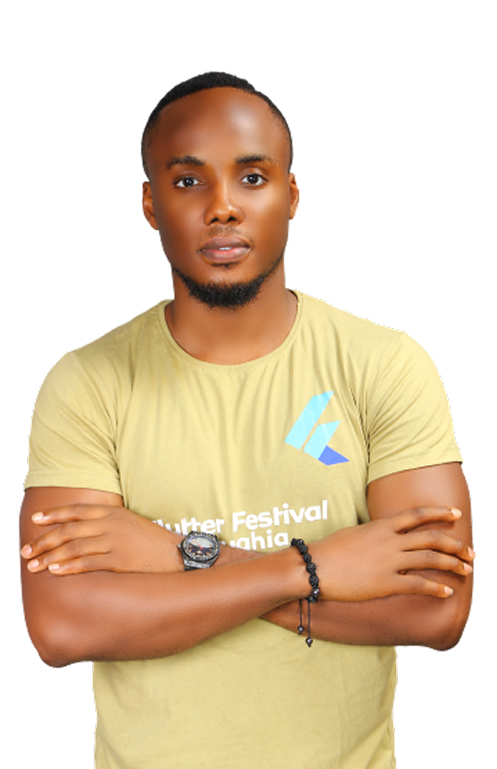
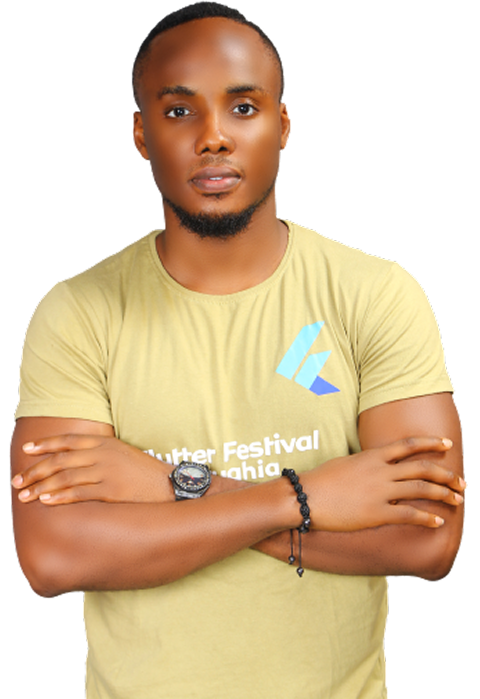
Fixed responsiveness issues

diff --git a/features/project-section/projects-slider.tsx b/features/project-section/projects-slider.tsx
@@ -26,9 +26,9 @@ export function ProjectSlider(){
         setViewedProjects([...viewedProjects, next]);
     }
     if (!mounted) return (<div className="flex items-center md:items-start justify-center">
-                              <Skeleton className="w-2/3 h-70 md:w-90 md:h-90 rounded-sm" />
+                              <Skeleton className="w-2/3 h-70 md:w-90 md:h-3/5 max-h-95 rounded-sm" />
                             </div>);
-    return (<div className="px-8 md:px-0 h-full w-screen md:w-4/5"><div className="relative w-full mt-4 md:mt-10 h-4/5 md:h-full">
+    return (<div className="px-8 md:px-0 h-2/3 md:h-3/5 md:max-h-95 w-screen md:w-4/6 mt-4"><div className="relative w-full h-4/5 md:h-full">
         {unviewedProjects.map((project,index) => {
             const top = (unviewedProjects.length*3)-(index*3);
             const leftRight = (index*4)
@@ -50,12 +50,12 @@ export function ProjectSlider(){
                             <div className="ml-4 mr-2 md:mr-0 grow text-sm/6 text-start">{project.shortDescription}</div>
                             <div className="mb-4 md:mb-6 mt-6 md:mt-0"><span className="inline-block animate-cta-pulse cursor-pointer rounded-l-0 rounded-r-md bg-primary font-bold text-white py-2 px-4 text-xs">View Details &gt;&gt;</span></div>
                         </div>
-                        <div className="grow h-20 md:max-h-full rounded-r-sm overflow-hidden"><Image alt="Project Screenshot" src={project.imageUrl} width={770} height={790} className="object-cover max-h-full rounded-r-sm"/></div>
+                        <div className="grow h-20 md:h-full rounded-r-sm overflow-hidden"><Image alt="Project Screenshot" src={project.imageUrl} width={770} height={790} className="object-cover max-h-full rounded-r-sm"/></div>
                     </div>
         </div>);})}
     </div>
     <div>
-        <div className="flex justify-center gap-20 mt-6 md:mt-0"><Button disabled={viewedProjects.length==0} className="cursor-pointer w-10 h-10 flex items-center justify-center rounded-full font-bold bg-white text-primary border-2 border-primary" onClick={viewPrevious}>&larr;</Button><Button disabled={unviewedProjects.length==1} className="cursor-pointer w-10 h-10 flex items-center justify-center rounded-full font-bold" onClick={viewNext}>&rarr;</Button></div>
+        <div className="flex justify-center gap-20 mt-8 md:mt-0"><Button disabled={viewedProjects.length==0} className="cursor-pointer w-10 h-10 flex items-center justify-center rounded-full font-bold bg-white text-primary border-2 border-primary" onClick={viewPrevious}>&larr;</Button><Button disabled={unviewedProjects.length==1} className="cursor-pointer w-10 h-10 flex items-center justify-center rounded-full font-bold" onClick={viewNext}>&rarr;</Button></div>
     </div>
     </div>);
 }

diff --git a/features/about-section/about-section.tsx b/features/about-section/about-section.tsx
@@ -9,17 +9,19 @@ export function AboutSection(){
         <div id='about' className="relative pr-4 md:pr-20 lg:pr-20 h-dvh pt-15 md:pt-15 snap-start scroll-mr-0 w-full overflow-x-hidden bg-[#E5E5E5]">
             <AboutContent>
                 <h2 className="block md:hidden text-xl text-center md:text-left font-bold w-full">About Me</h2>
-                <div className="flex itmes-center justify-start md:justify-center h-45 md:h-145 relative w-full md:w-auto">
-                    <div className="bg-primary rounded-r-lg h-15 md:h-55 w-xs md:w-105 my-auto"></div>
-                    <div className="h-35 md:h-110 w-35 md:w-75 absolute left-1/2 -translate-x-1/2 md:translate-x-0 md:left-30 top-0 bottom-0">
-                        <Image alt="A Photo of me" src="/about-photo.png" width={497} height={769} className="hidden md:block object-cover" />
+                <div className="flex itmes-center justify-start md:justify-center h-1/6 md:h-2/3 relative w-full md:w-auto">
+                    <div className="block md:hidden bg-primary rounded-r-lg h-2/4 w-xs translate-y-4/5"></div>
+                    <div className="hidden md:block w-80 lg:w-100 my-auto">
+                        <Image alt="A Photo of me" src="/photo.png" width={497} height={769} className="hidden md:block object-cover" />
+                    </div>
+                    <div className="block md:hidden h-full overflow-hidden w-1/3 absolute left-1/2 -translate-x-1/2 top-0 bottom-0">
                         <Image alt="A Photo of me" src="/about-photo-small.png" width={158} height={178} className="block md:hidden object-cover"/>
                     </div>
                     
                 </div>
-                <div>
+                <div className="flex flex-col justify-center md:h-2/3">
                     <h2 className="hidden md:block text-3xl text-left font-bold">About Me</h2>
-                    <p className="text-sm/8 md:text-xl/8 text-center md:text-justify mt-0 md:mt-4 px-4 md:px-0">{careaProfile.aboutText}</p>
+                    <p className="text-sm/8 md:text-xl/8 text-center md:text-justify mt-4 md:mt-4 px-4 md:px-0">{careaProfile.aboutText}</p>
                 </div>
             </AboutContent>
         </div>

diff --git a/features/nav/navbar-section.tsx b/features/nav/navbar-section.tsx
@@ -14,8 +14,8 @@ export function NavBarSection() {
   
 
     return (
-        <div className="fixed top-0 right-0 left-0 md:right-4 xl:right-6 xl:left-6 z-100">
-        <div className="flex flex-row items-center justify-between max-w-6xl mx-auto px-4 md:px-10 lg:px-20 bg-white h-20">
+        <div className="fixed w-full max-w-6xl top-0 pr-0 md:pr-4  z-100">
+        <div className="flex flex-row items-center justify-between w-full max-w-6xl mx-auto px-4 md:px-10 lg:px-20 bg-white h-20">
             <div className="flex flex-row items-center gap-4">
                 <Button className="block md:hidden" onClick={toggleSidebar} variant={"ghost"} size={"icon"} asChild><Menu className="text-primary"/></Button>
                 <Link href="/" className="text-primary font-bold">{personaDetail.middleName} {personaDetail.lastName}</Link>

diff --git a/features/about-section/about-content.tsx b/features/about-section/about-content.tsx
@@ -4,7 +4,7 @@
 export function AboutContent({children}: Readonly<{
   children: React.ReactNode;
 }>) {
-    return (<div className="flex flex-col md:flex-row mt-10 md:mt-10 gap-4 md:gap-20 items-start md:items-center justify-center md:justify-start w-full">
+    return (<div className="flex flex-col md:flex-row gap-4 md:gap-20 items-start md:items-center justify-center md:justify-start w-full h-full">
         {children}
     </div>);
 }

diff --git a/features/project-section/project-content.tsx b/features/project-section/project-content.tsx
@@ -1,7 +1,7 @@
 export function ProjectContent({children}: Readonly<{
   children: React.ReactNode;
 }>) {
-    return (<div className="flex flex-col gap-2 items-center h-full pt-20 md:pt-30">
+    return (<div className="flex flex-col gap-2 items-center justify-center h-full">
         {children}
     </div>);
 }
